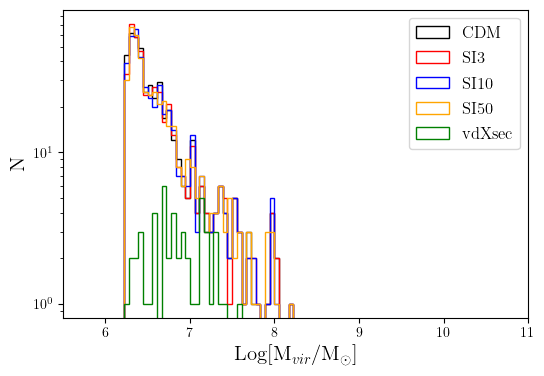
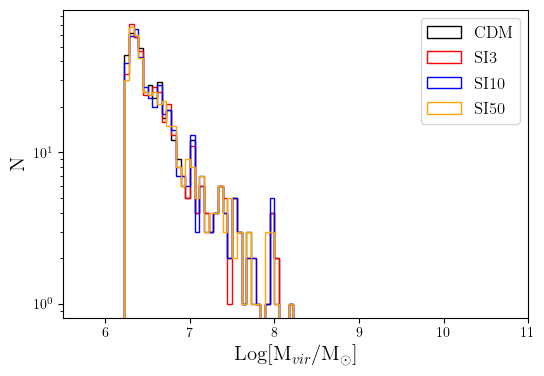
Updated Mass Function

Changed region(s): [[0.75, 0.0293, 0.9688, 0.4096], [0.2188, 0.4973, 0.4688, 0.8484]]

diff --git a/Code/MassFunctionComparison.py b/Code/MassFunctionComparison.py
@@ -26,6 +26,10 @@ if args.simulation=='storm':
         N50 = np.load(f'../DataFiles/Npart.{args.simulation}.SI50.{args.redshift}.npy')
         M50 = np.load(f'../DataFiles/Mvir.{args.simulation}.SI50.{args.redshift}.npy')
         C50 = np.load(f'../DataFiles/ContaminationFraction.{args.simulation}.SI50.{args.redshift}.npy')
+if args.redshift=='z13.5':
+    NV = np.load(f'../DataFiles/Npart.{args.simulation}.VTS.{args.redshift}.npy')
+    MV = np.load(f'../DataFiles/Mvir.{args.simulation}.VTS.{args.redshift}.npy')
+    CV = np.load(f'../DataFiles/ContaminationFraction.{args.simulation}.VTS.{args.redshift}.npy')
 
 #Apply particle count limit
 M0 = M0[N0>(int(args.npart)-1)]
@@ -97,14 +101,14 @@ for b in [False,True]:
         ax[0].plot(mass_bins,pM3,c='r',label='SI3')
         ax[0].plot(mass_bins,pM10,c='b',label='SI10')
         if args.redshift in ['z2','z3','z4','z13.5']: ax[0].plot(mass_bins,pM50,c='orange',label='SI50')
-    ax[0].plot(mass_bins,pMV,c='g',label='vdXsec')
+    #ax[0].plot(mass_bins,pMV,c='g',label='vdXsec')
 
     ax[1].plot(mass_bins,pM0/pM0[0],c='k',label='CDM')
     if args.simulation=='storm':
         ax[1].plot(mass_bins,pM3/pM3[0],c='r',label='SI3')
         ax[1].plot(mass_bins,pM10/pM10[0],c='b',label='SI10')
         if args.redshift in ['z2','z3','z4','z13.5']: ax[1].plot(mass_bins,pM50/pM50[0],c='orange',label='SI50')
-    ax[1].plot(mass_bins,pMV/pMV[0],c='g',label='vdXsec')
+    #ax[1].plot(mass_bins,pMV/pMV[0],c='g',label='vdXsec')
 
     ax[0].legend(loc='upper right',prop={'size':12})
 
@@ -132,14 +136,14 @@ for b in [False,True]:
         ax[0].plot(mass_bins,iM3,c='r',label='SI3')
         ax[0].plot(mass_bins,iM10,c='b',label='SI10')
         if args.redshift in ['z2','z3','z4','z13.5']: ax[0].plot(mass_bins,iM50,c='orange',label='SI50')
-    ax[0].plot(mass_bins,iMV,c='g',label='vdXsec')
+    #ax[0].plot(mass_bins,iMV,c='g',label='vdXsec')
 
     ax[1].plot(mass_bins,iM0/iM0[-1],c='k',label='CDM')
     if args.simulation=='storm':
         ax[1].plot(mass_bins,iM3/iM3[-1],c='r',label='SI3')
         ax[1].plot(mass_bins,iM10/iM10[-1],c='b',label='SI10')
         if args.redshift in ['z2','z3','z4','z13.5']: ax[1].plot(mass_bins,iM50/iM50[-1],c='orange',label='SI50')
-    ax[1].plot(mass_bins,iMV/iMV[-1],c='g',label='vdXsec')
+    #ax[1].plot(mass_bins,iMV/iMV[-1],c='g',label='vdXsec')
 
     ax[0].legend(loc='upper left',prop={'size':12})
 
@@ -162,7 +166,7 @@ for b in [False,True]:
         ax.hist(np.log10(M3),mass_bins,histtype='step',density=b,color='r',label='SI3')
         ax.hist(np.log10(M10),mass_bins,histtype='step',density=b,color='b',label='SI10')
         if args.redshift in ['z2','z3','z4','z13.5']: ax.hist(np.log10(M50),mass_bins,histtype='step',density=b,color='orange',label='SI50')
-    ax.hist(np.log10(MV),mass_bins,histtype='step',density=b,color='g',label='vdXsec')
+    #ax.hist(np.log10(MV),mass_bins,histtype='step',density=b,color='g',label='vdXsec')
 
     if not b:
         ax.semilogy()
